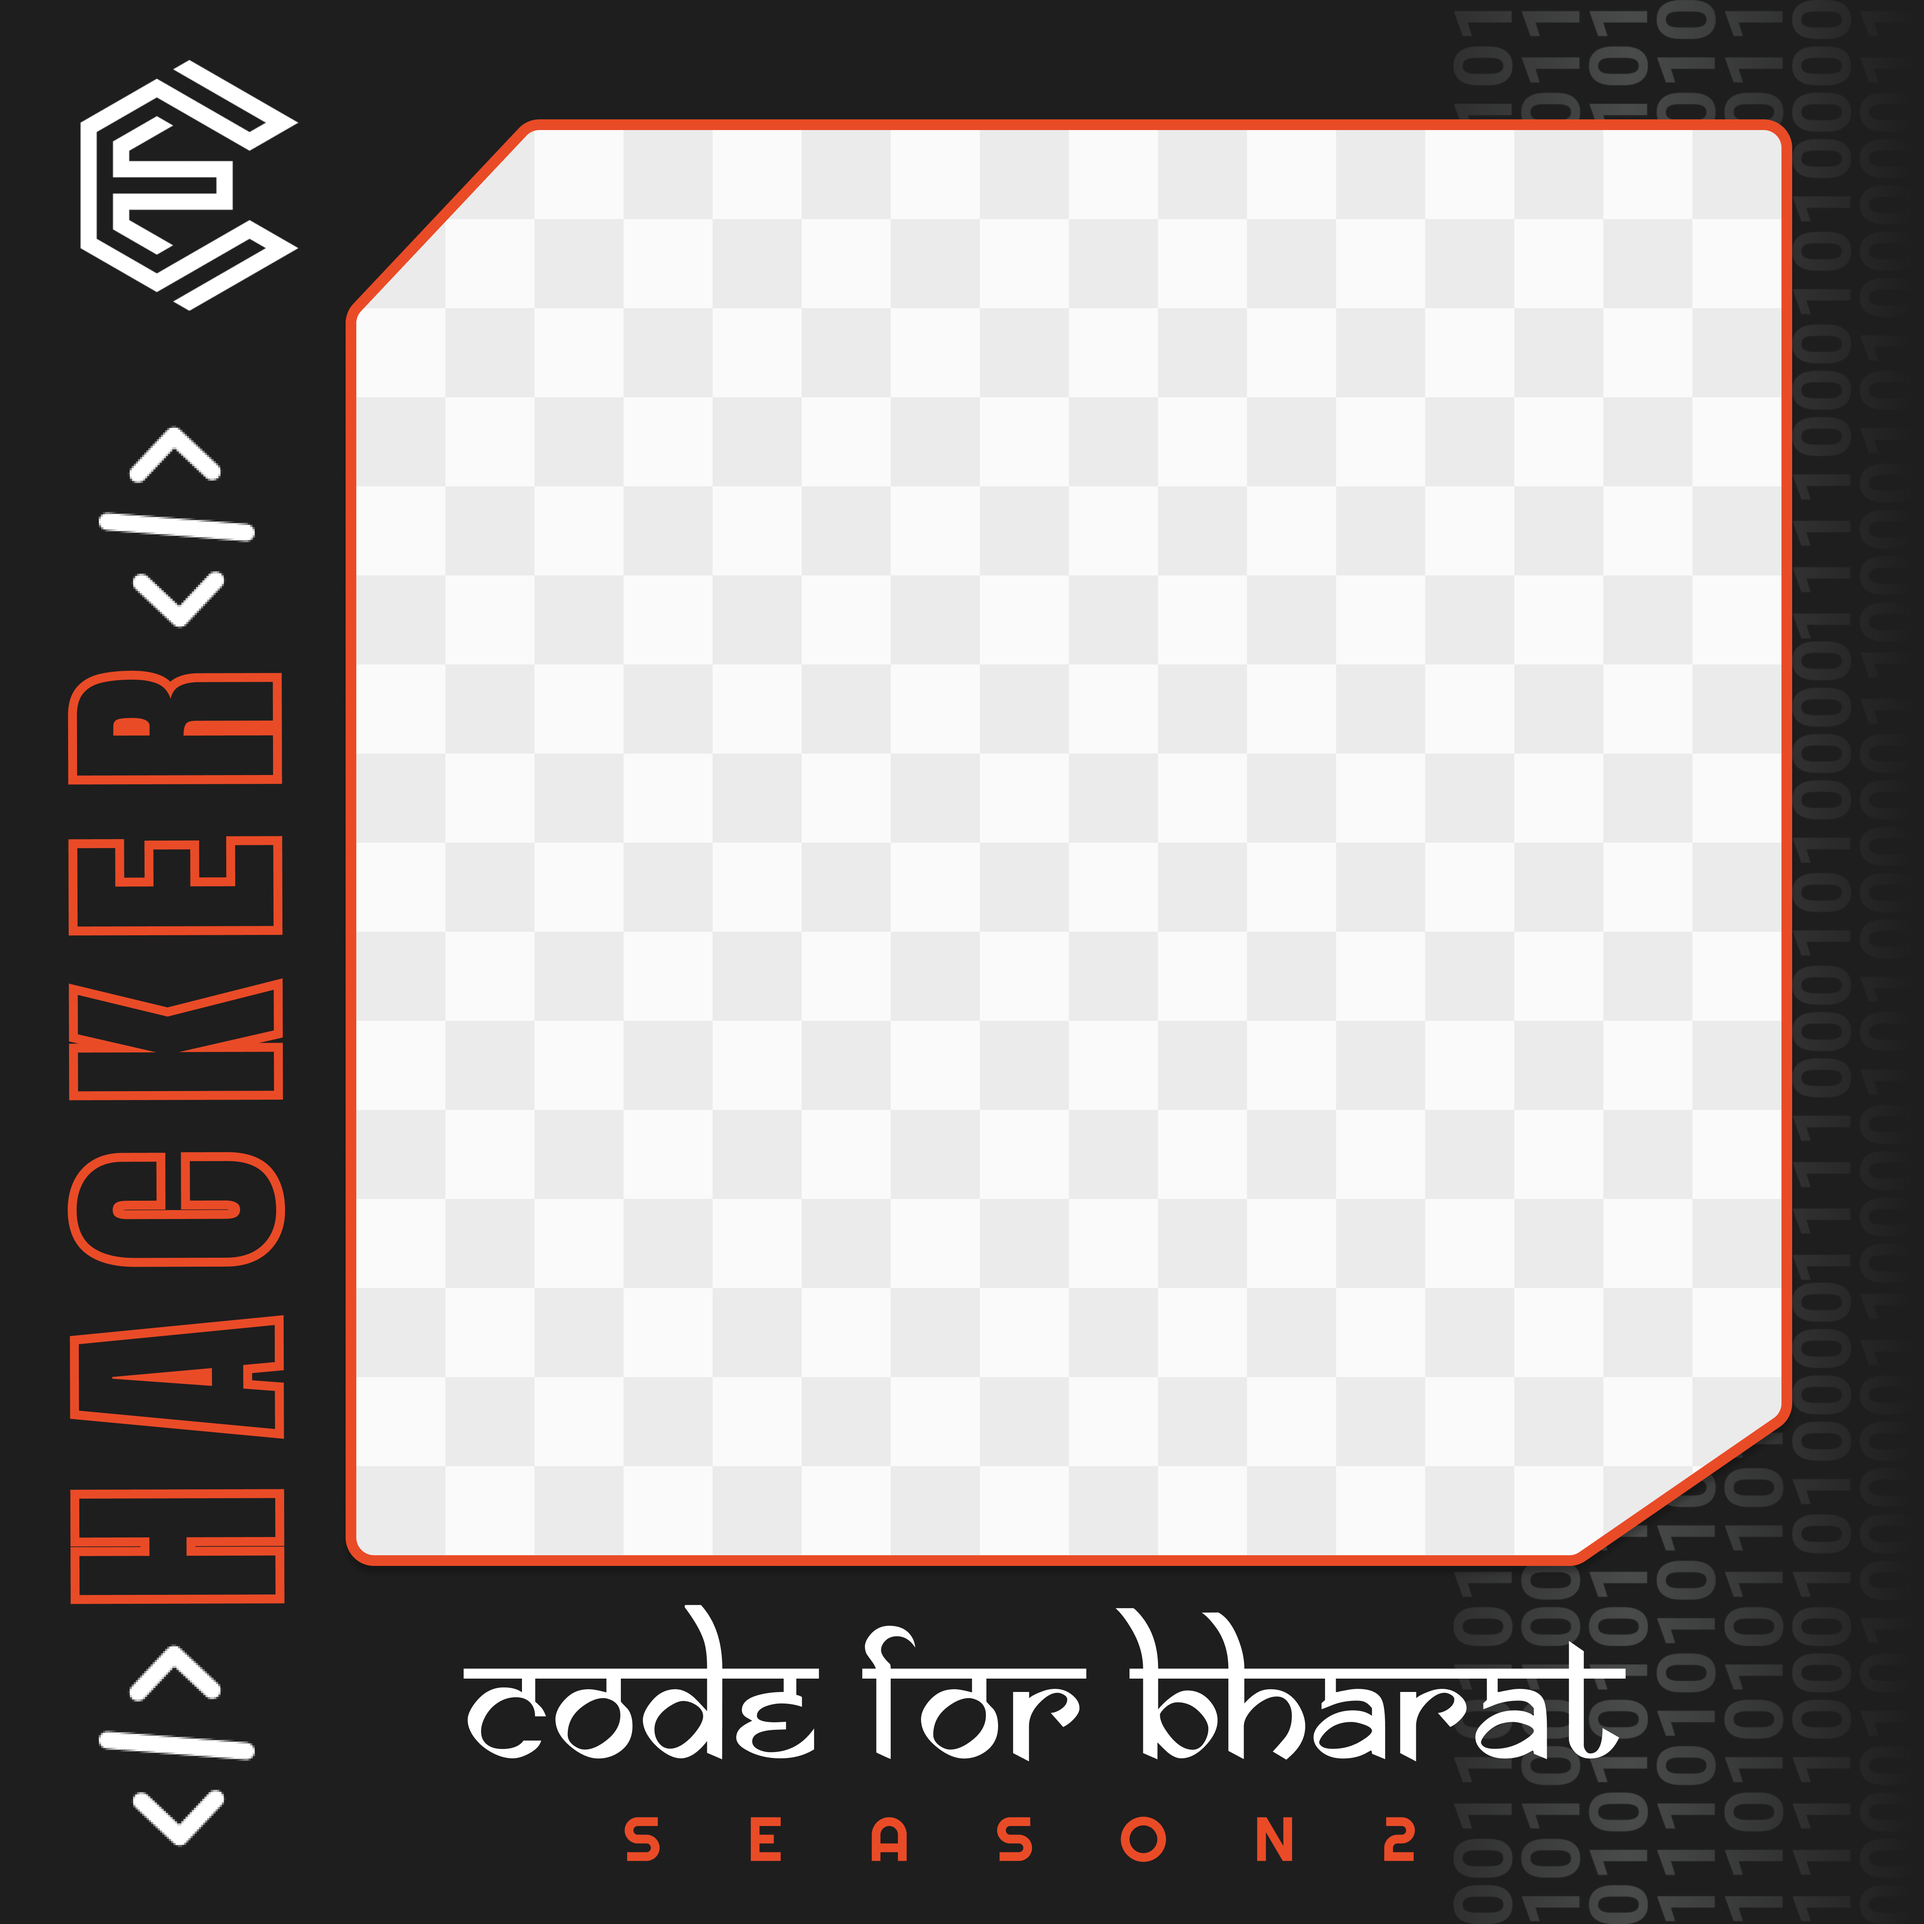
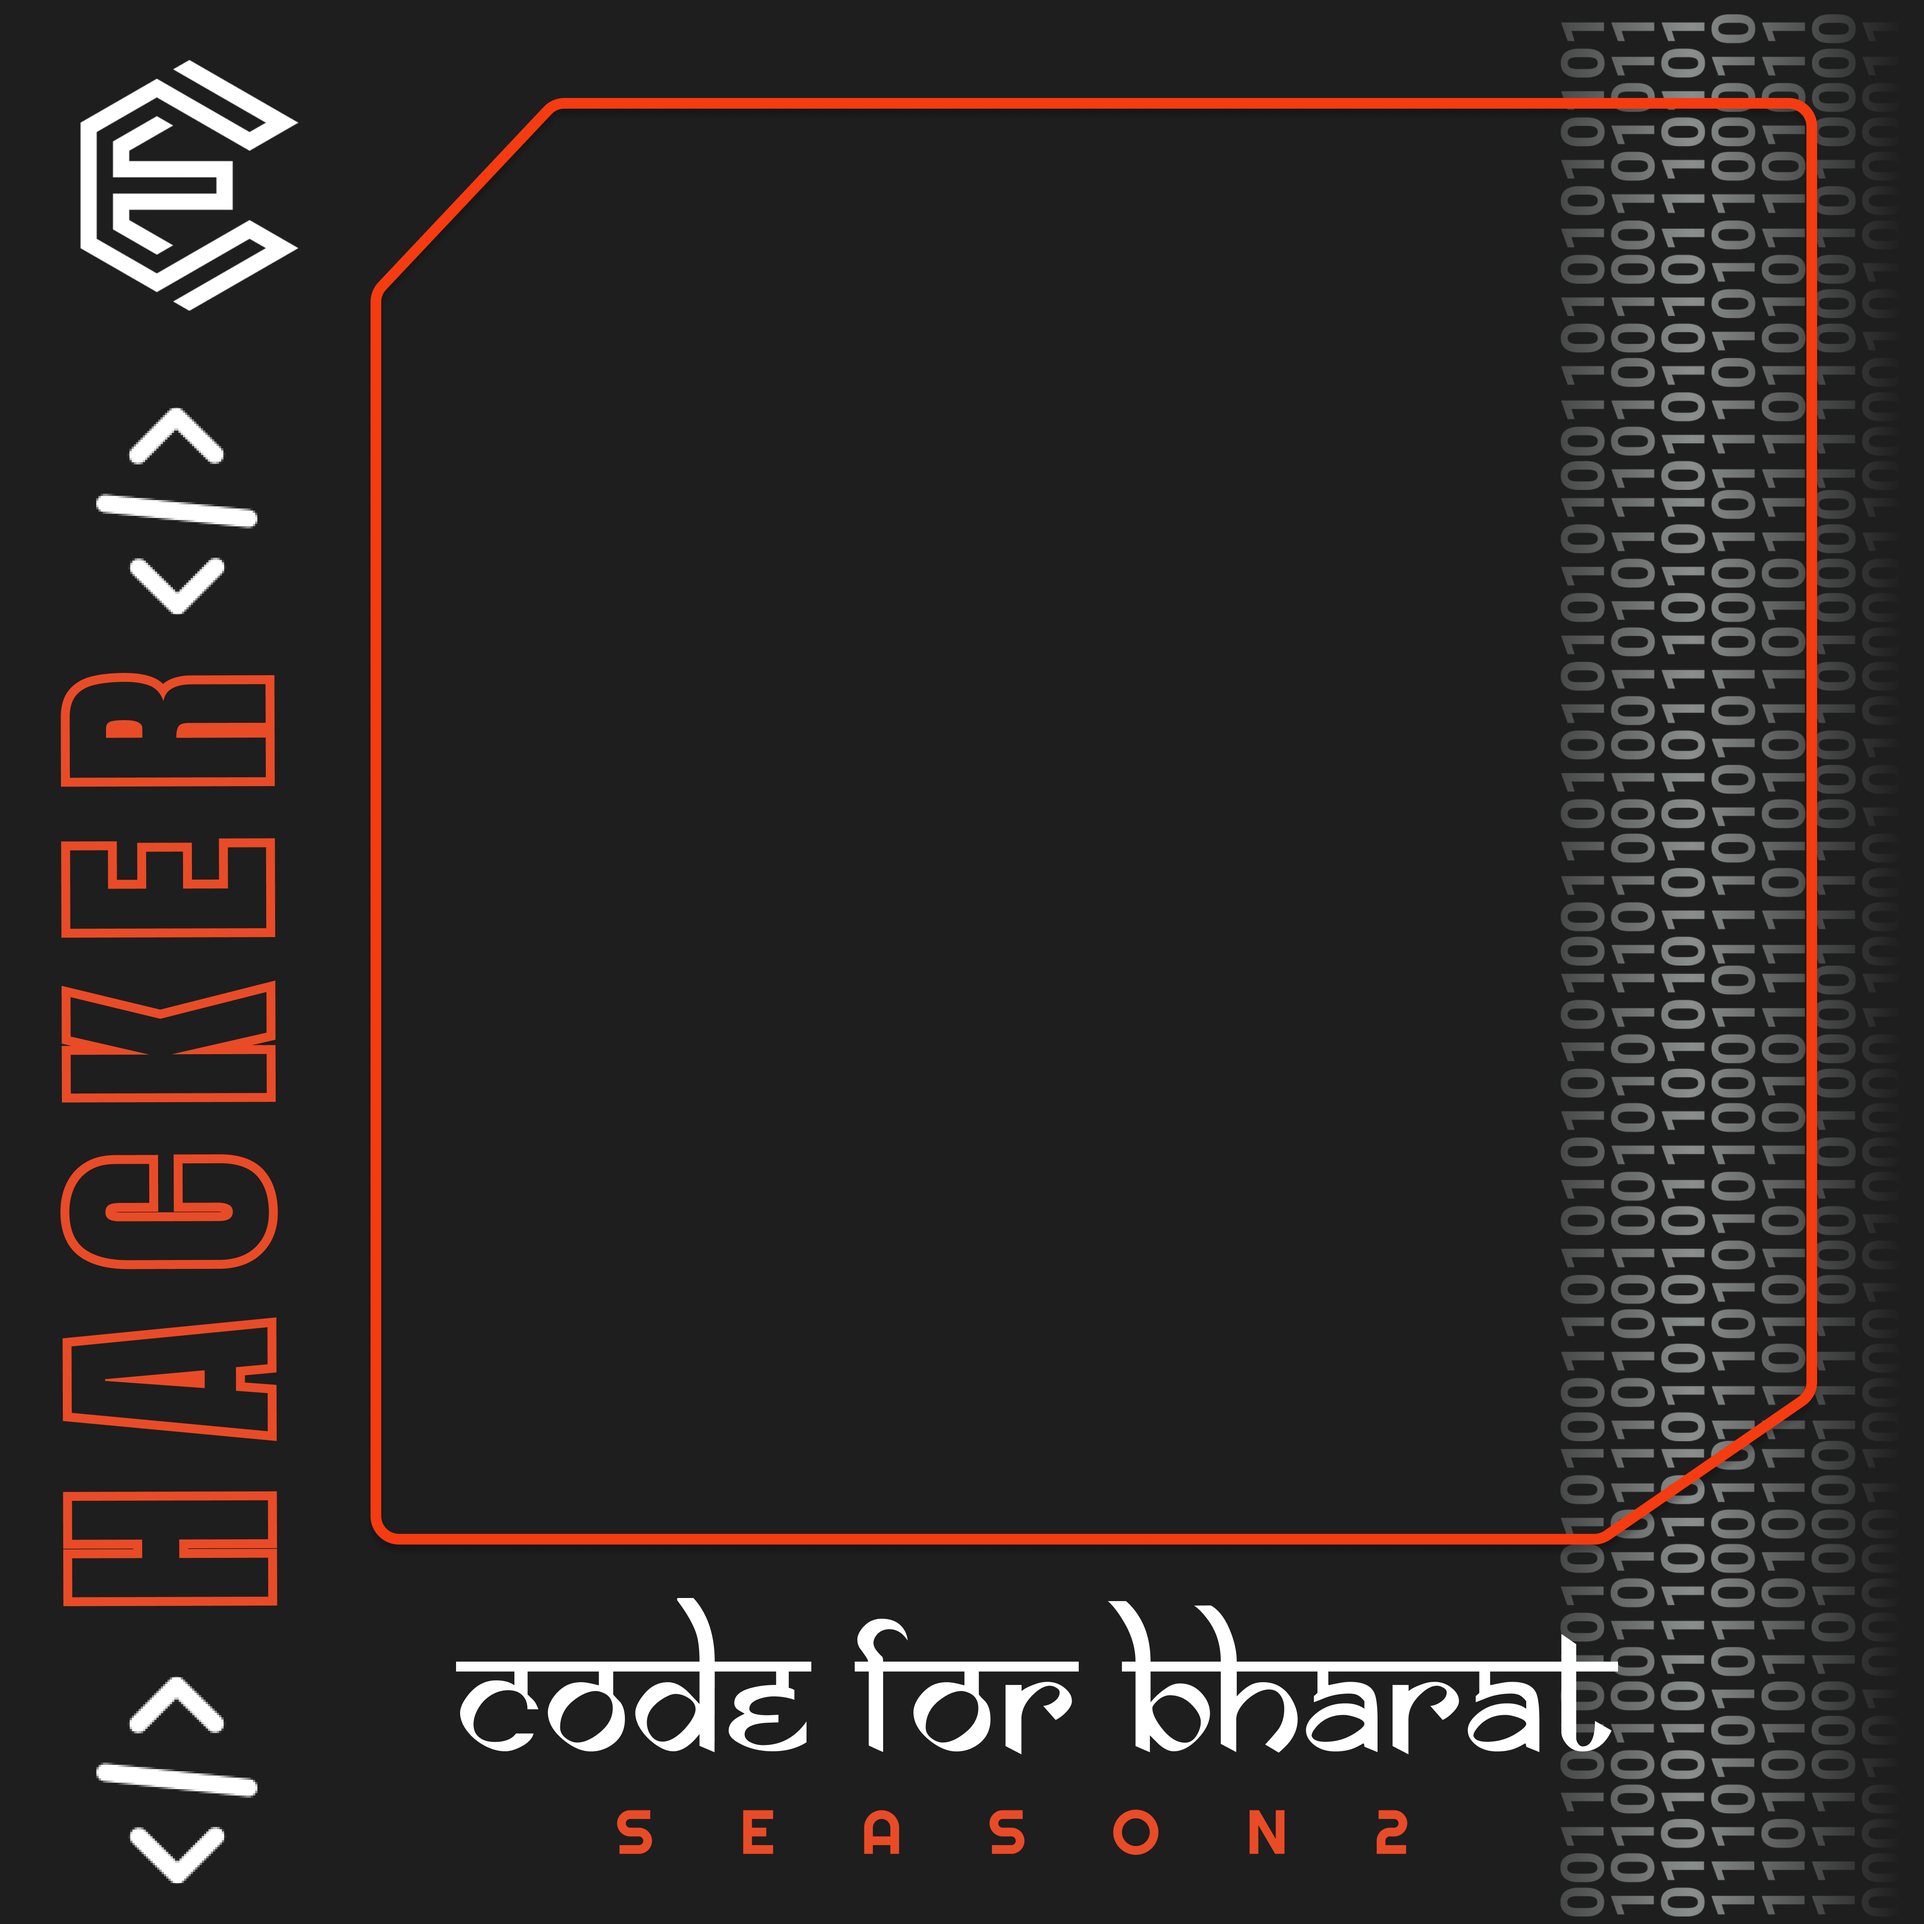
Fixed digitalswag

diff --git a/components/Home/digitalswag.tsx b/components/Home/digitalswag.tsx
@@ -42,42 +42,81 @@ const DigitalSwag: React.FC = () => {
 
     // If there's an uploaded image, draw it in the red area
     if (image) {
-      const img = new Image();
+      const img = new window.Image();
+      img.crossOrigin = "anonymous";
       img.onload = () => {
-        // Red area (blank area in the frame)
-        const redAreaX = 200;
-        const redAreaY = 150;
-        const redAreaWidth = 500;
-        const redAreaHeight = 500;
+        // Photo area (where the uploaded image should go)
+        const photoAreaX = 200;
+        const photoAreaY = 150;
+        const photoAreaWidth = 500;
+        const photoAreaHeight = 500;
 
-        // Calculate scale to fit image in the blank area
-        const scale = Math.min(
-          redAreaWidth / img.width,
-          redAreaHeight / img.height
+        // Calculate scale to cover the area (cover, not contain)
+        const scale = Math.max(
+          photoAreaWidth / img.width,
+          photoAreaHeight / img.height
         );
 
-        const scaledWidth = img.width * scale;
-        const scaledHeight = img.height * scale;
+        const scaledWidth = 500;
+        const scaledHeight =450;
 
-        // Center the image in the blank area
-        const x = redAreaX + (redAreaWidth - scaledWidth) / 2;
-        const y = redAreaY + (redAreaHeight - scaledHeight) / 2;
+        // Center the image in the photo area
+        const x = 200
+        const y = 150
+        // Draw the frame first (background)
+        ctx.drawImage(frameImage.current!, 0, 0, canvas.width, canvas.height);
 
-        // Draw the image behind the frame
+        // Clip to the photo area so image doesn't draw outside
+        ctx.save();
+        ctx.beginPath();
+        ctx.rect(photoAreaX, photoAreaY, photoAreaWidth, photoAreaHeight);
+        ctx.closePath();
+        ctx.clip();
+
+        // Draw the uploaded image on top of the frame (higher z-index visually)
         ctx.drawImage(img, x, y, scaledWidth, scaledHeight);
 
-        // Now draw the frame image on top (covering the whole canvas)
-        if (frameImage.current) {
-          ctx.drawImage(frameImage.current, 0, 0, canvas.width, canvas.height);
+        ctx.restore();
+
+        // Draw the name if provided
+        if (name.trim()) {
+          ctx.font = 'bold 60px "Space Grotesk", Arial, sans-serif';
+          ctx.fillStyle = '#ffffff';
+          ctx.textAlign = 'center';
+          ctx.strokeStyle = '#000000';
+          ctx.lineWidth = 2;
+          ctx.strokeText(name.toUpperCase(), canvas.width / 2, 750);
+          ctx.fillText(name.toUpperCase(), canvas.width / 2, 750);
+        }
+      };
+      img.onerror = () => {
+        // fallback: just draw frame and name
+        ctx.drawImage(frameImage.current!, 0, 0, canvas.width, canvas.height);
+        if (name.trim()) {
+          ctx.font = 'bold 60px "Space Grotesk", Arial, sans-serif';
+          ctx.fillStyle = '#ffffff';
+          ctx.textAlign = 'center';
+          ctx.strokeStyle = '#000000';
+          ctx.lineWidth = 2;
+          ctx.strokeText(name.toUpperCase(), canvas.width / 2, 750);
+          ctx.fillText(name.toUpperCase(), canvas.width / 2, 750);
         }
       };
       img.src = image;
-    } else if (name) {
-      // If no image but name exists, just draw the name
-      ctx.font = 'bold 60px "Space Grotesk"';
-      ctx.fillStyle = '#ffffff';
-      ctx.textAlign = 'center';
-      ctx.fillText(name.toUpperCase(), canvas.width / 2, 750);
+    } else {
+      // Draw the frame only
+      ctx.drawImage(frameImage.current, 0, 0, canvas.width, canvas.height);
+
+      // Draw the name if provided
+      if (name.trim()) {
+        ctx.font = 'bold 60px "Space Grotesk", Arial, sans-serif';
+        ctx.fillStyle = '#ffffff';
+        ctx.textAlign = 'center';
+        ctx.strokeStyle = '#000000';
+        ctx.lineWidth = 2;
+        ctx.strokeText(name.toUpperCase(), canvas.width / 2, 750);
+        ctx.fillText(name.toUpperCase(), canvas.width / 2, 750);
+      }
     }
   }, [image, name]);
 
@@ -151,7 +190,7 @@ const DigitalSwag: React.FC = () => {
                 className="list-disc list-inside space-y-1"
                 style={{ fontFamily: "Zendots, monospace", fontSize: "0.85rem" }}
               >
-              
+
                 <li>Upload your photo</li>
                 <li>Download your Digital Swag</li>
                 <li>Share it on social media and tag us for special gift! 🎁</li>
